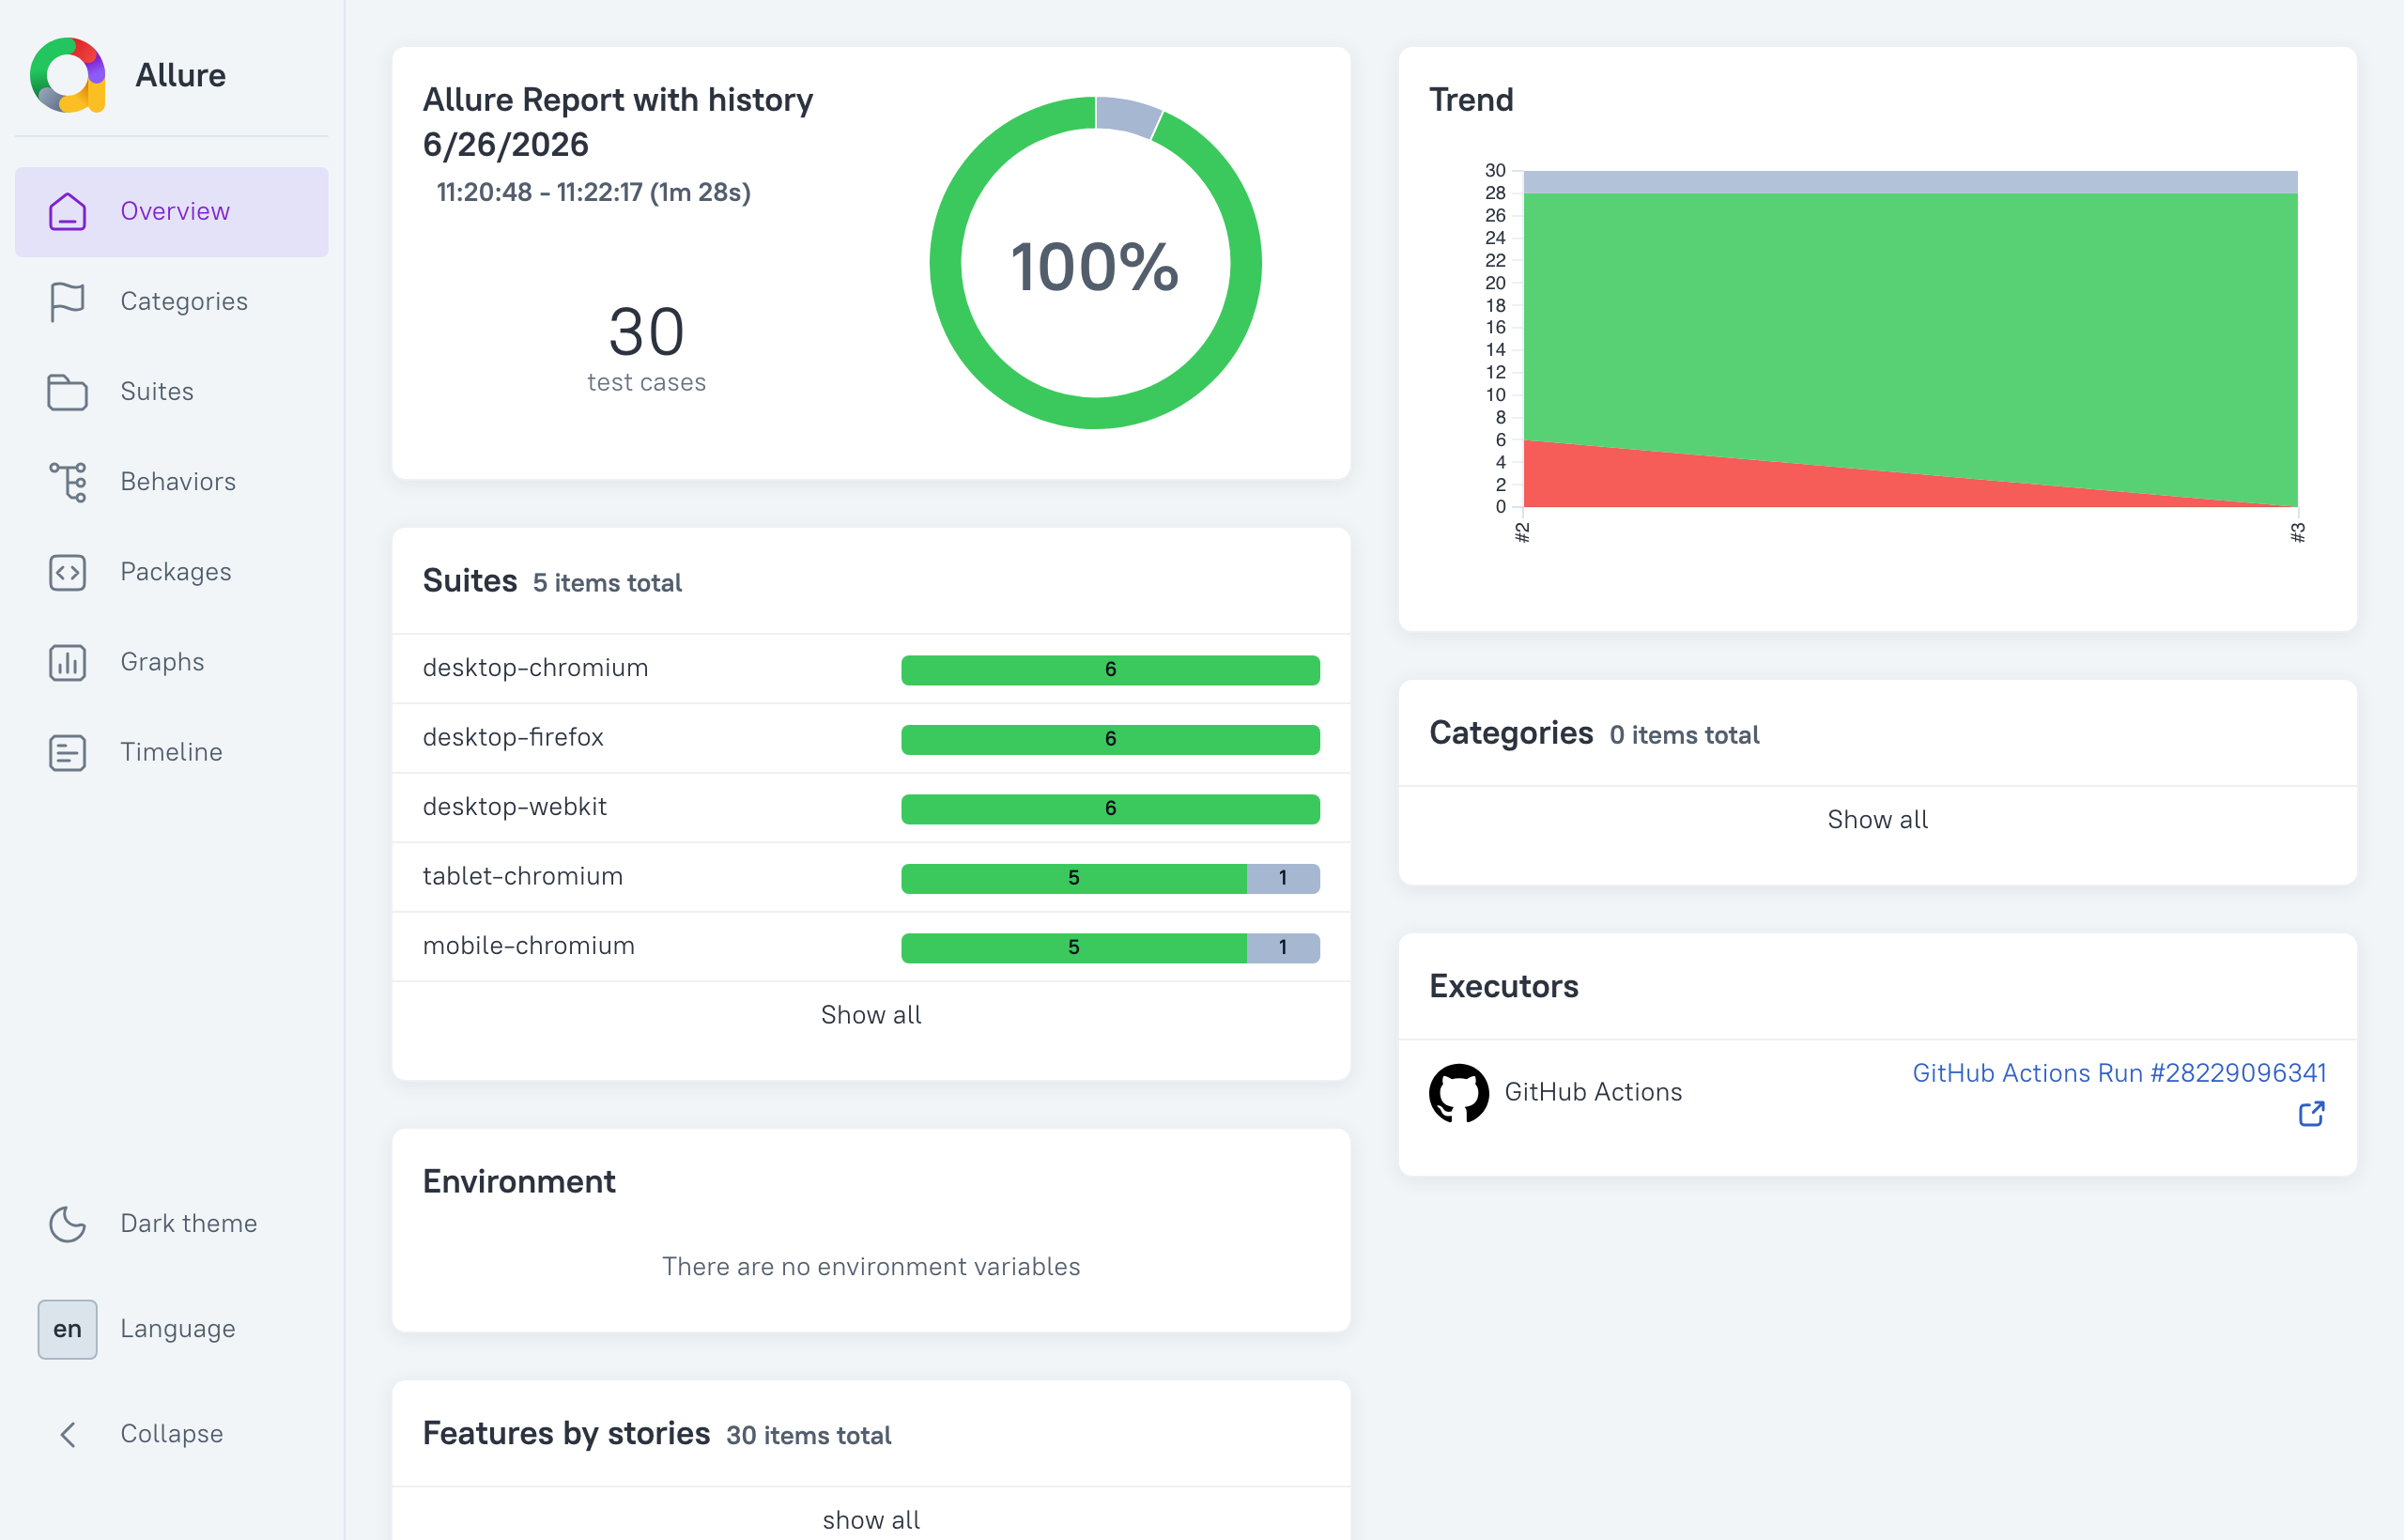
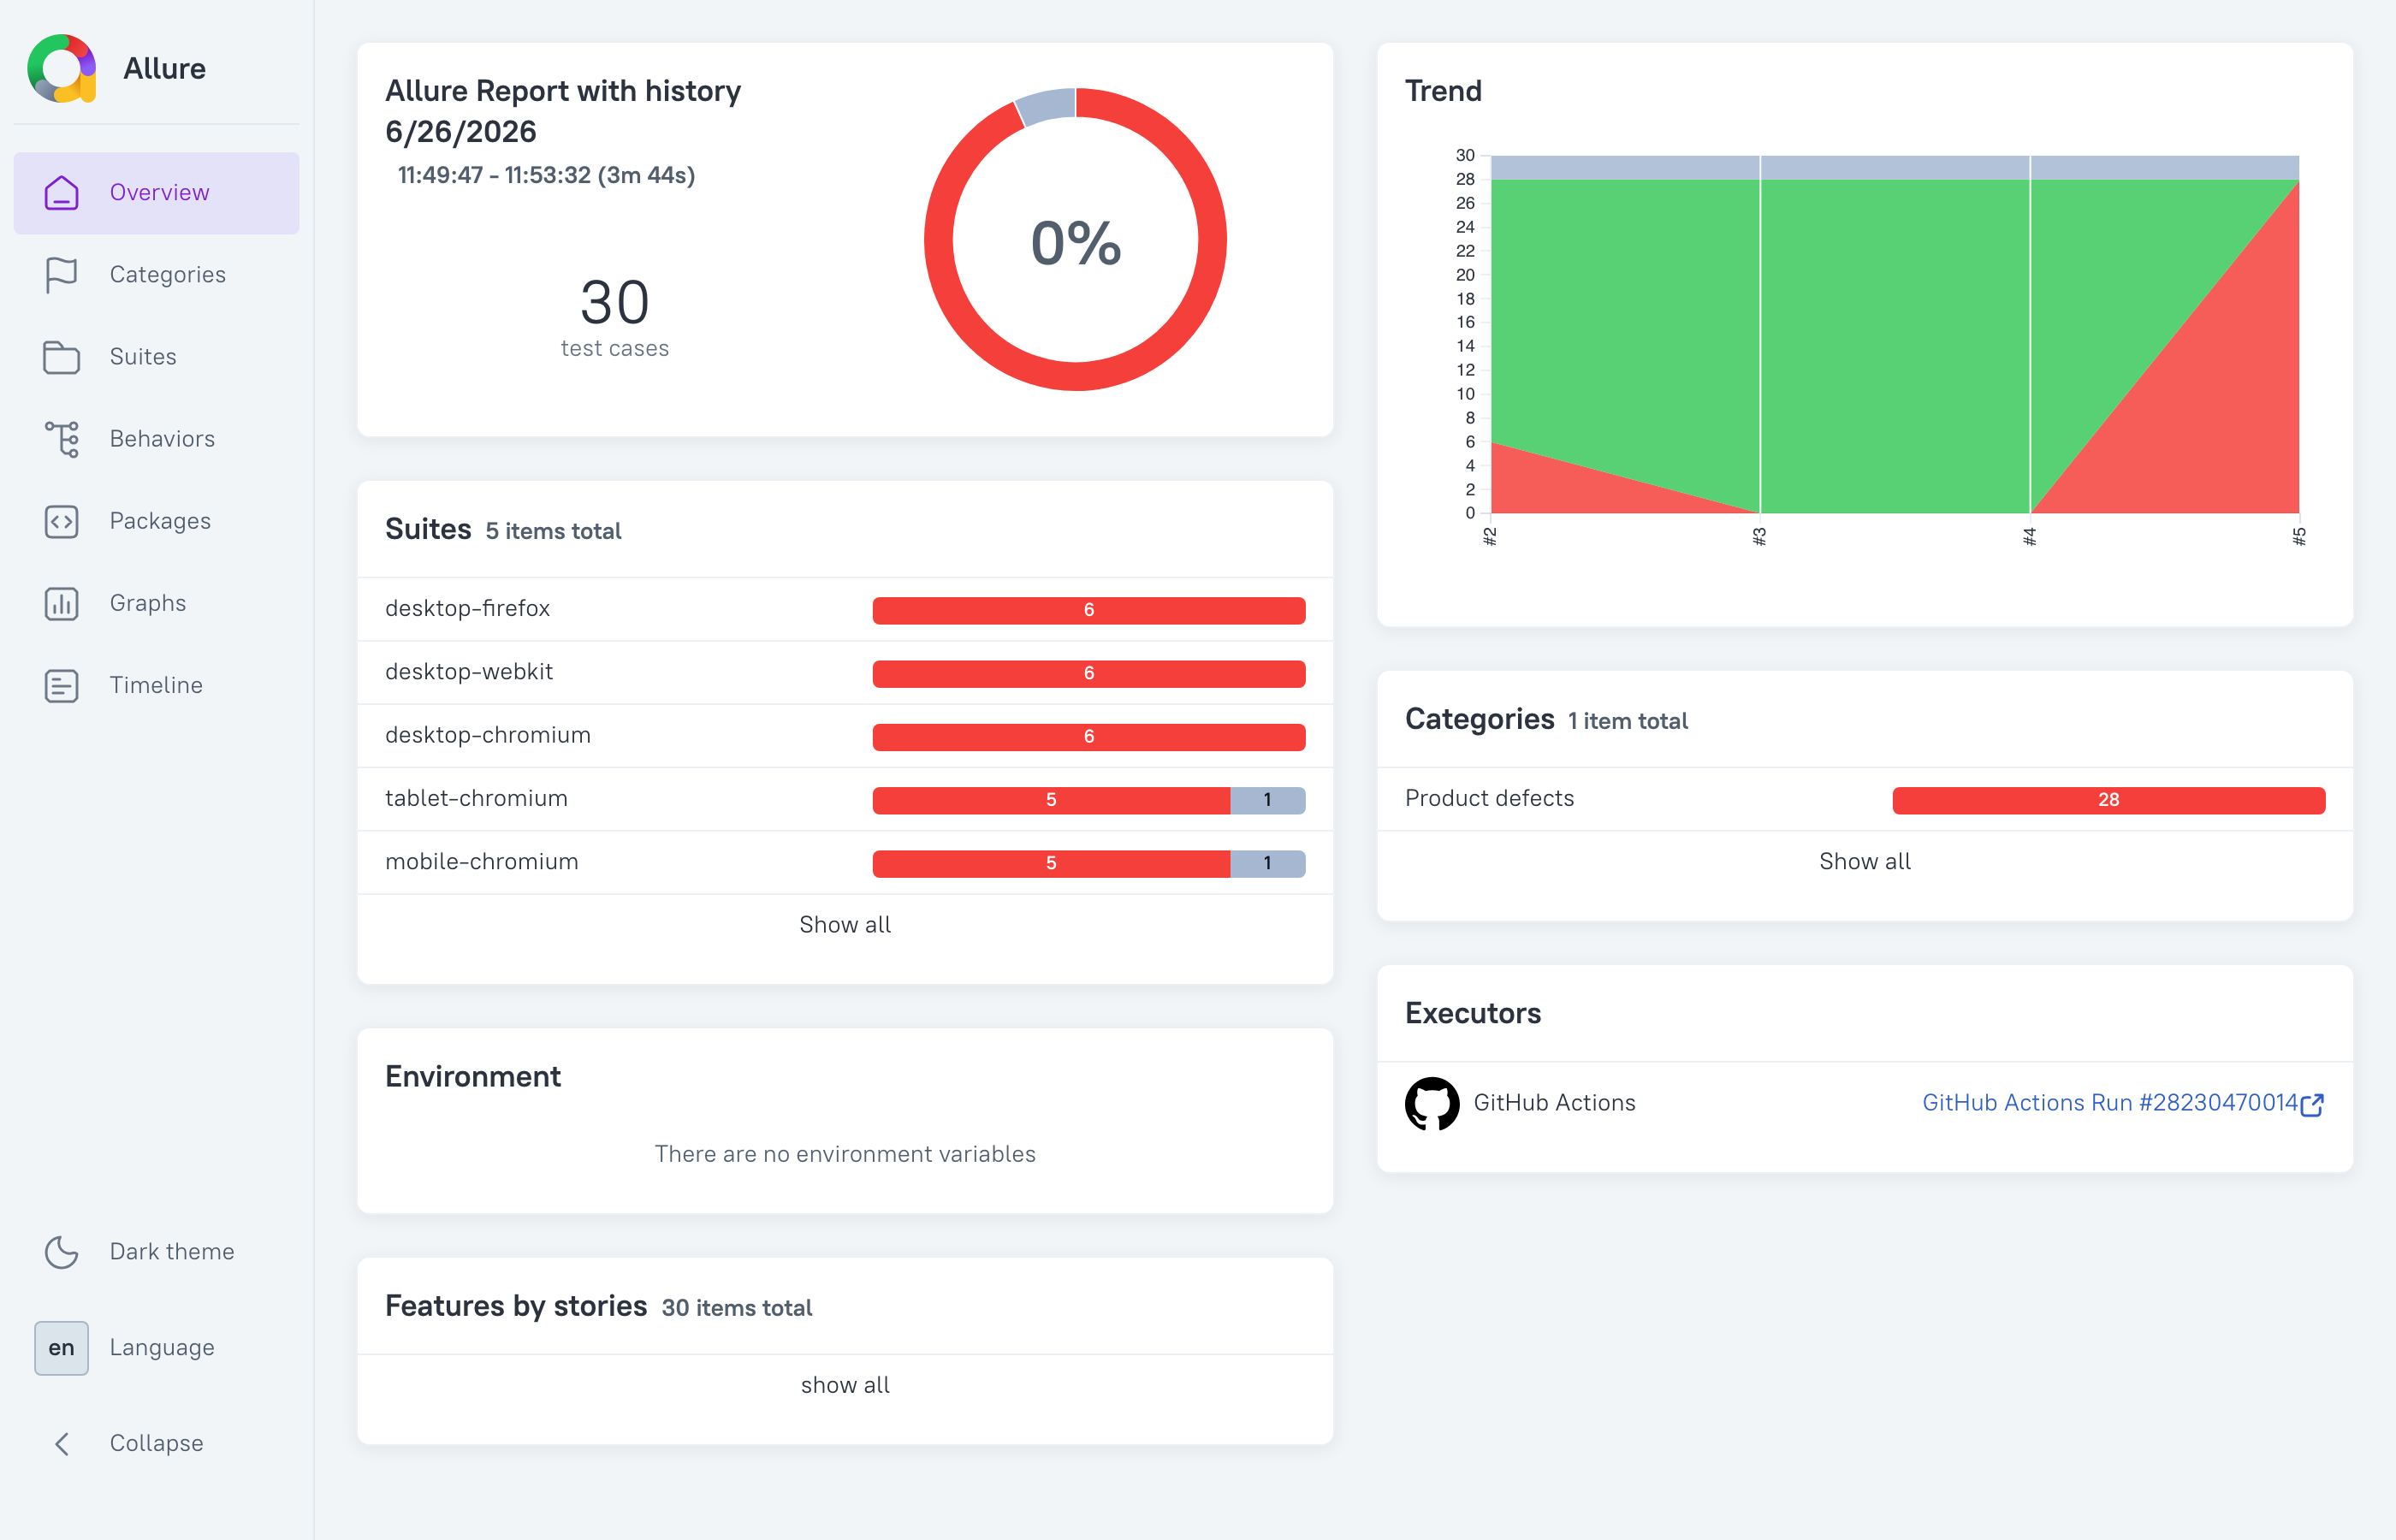
docs: Allure dashboard now shows the real visual-diff failures
Replace the green-dashboard screenshot with the with-bugs run: overview (28
regressions caught, 'Product defects' category, trend), the failure detail
(mismatch reason + steps), and the image-diff viewer (Show diff / overlay).

diff --git a/README.md b/README.md
@@ -93,8 +93,17 @@ Every failure ships with the full diff, the stabilization call-log, and the sour
 Both report on the **with-bugs run**, so the failures are real. The native Playwright report stays primary for its per-failure diff slider, while **Allure** runs as a *secondary* reporter — a hosted dashboard where every failed test carries its **interactive image diff (Expected / Actual / Diff)** and the exact reason it failed, with history & trends across runs.
 
 <div align="center">
-<a href="https://ivanpetrovic.dev/visual-comparison/"><img src="docs/images/allure-overview.png" width="820" alt="Allure dashboard — 100% passing, history trend, per-project breakdown"/></a>
-<br/><sub>The live <b><a href="https://ivanpetrovic.dev/visual-comparison/">Allure dashboard</a></b> — pass-rate, history trend, and per-project breakdown, regenerated by CI on every run.</sub>
+
+<a href="https://ivanpetrovic.dev/visual-comparison/"><img src="docs/images/allure-overview.png" width="820" alt="Allure dashboard — visual regressions caught, categorized as Product defects, with trend history"/></a>
+<br/><sub>The live <b><a href="https://ivanpetrovic.dev/visual-comparison/">Allure dashboard</a></b> — the with-bugs run: every visual regression caught, grouped as <i>Product defects</i>, with a pass-rate trend across runs.</sub>
+
+<table>
+  <tr>
+    <td align="center" width="50%"><img src="docs/images/allure-detail.png" alt="Failed test detail with the mismatch reason"/><br/><sub>Each failure shows <b>why</b> — the pixel mismatch (<code>ratio of all image pixels different</code>), every step, and its attachments.</sub></td>
+    <td align="center" width="50%"><img src="docs/images/allure-diff.png" alt="Allure image-diff viewer — Show diff / Show overlay"/><br/><sub>…and the <b>image diff</b> itself — <i>Show diff / Show overlay</i> over Expected vs Actual.</sub></td>
+  </tr>
+</table>
+
 </div>
 
 ---